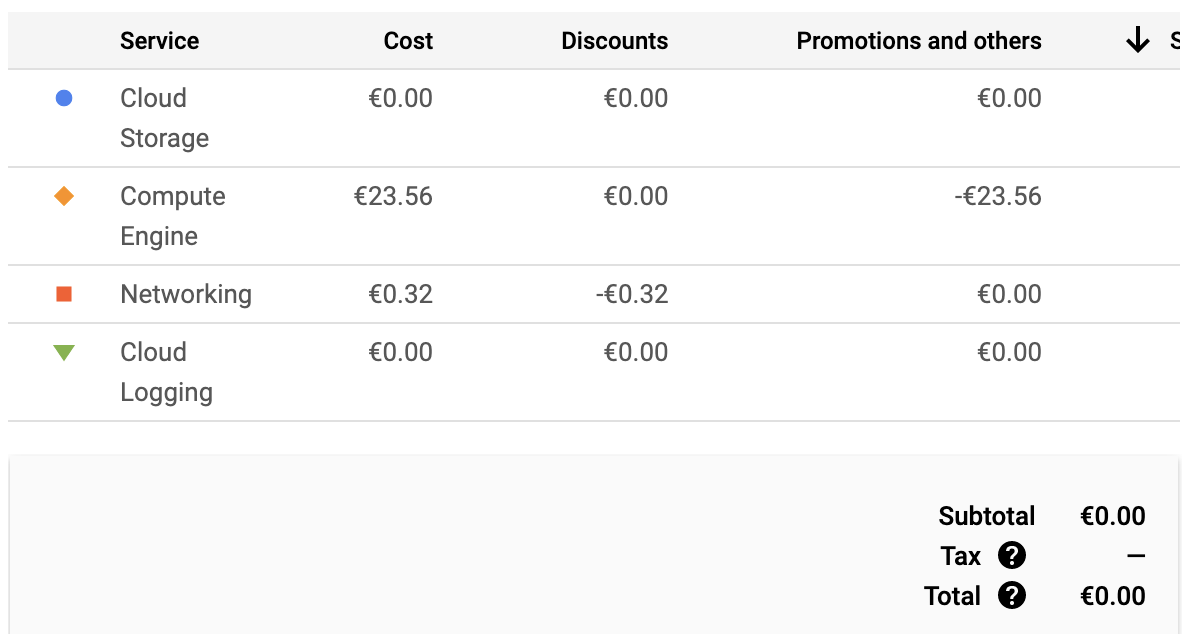
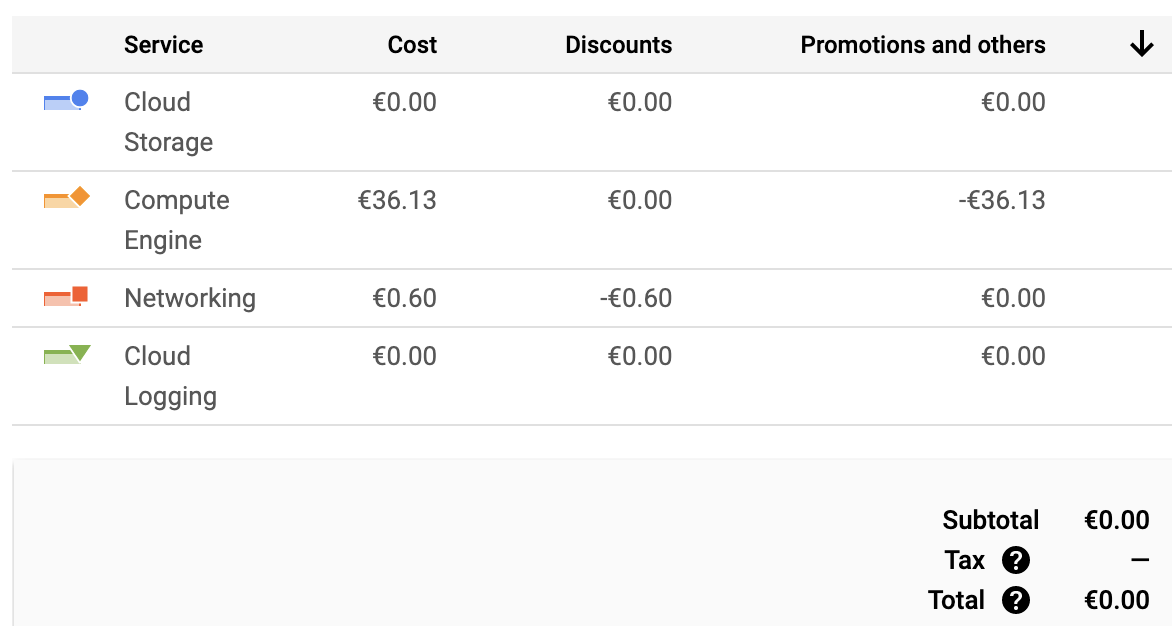
update report

Changed region(s): [[0.0307, 0.3642, 1.0, 0.6981], [0.0, 0.0304, 1.0, 0.3339], [0.7679, 0.7891, 0.9829, 1.0]]

diff --git a/reports/README.md b/reports/README.md
@@ -3,48 +3,11 @@ layout: default
 nav_exclude: true
 ---
 
-# Exam template for 02476 Machine Learning Operations
-
-This is the report template for the exam. Please only remove the text formatted as with three dashes in front and behind
-like:
-
-```--- question 1 fill here ---```
-
-where you instead should add your answers. Any other changes may have unwanted consequences when your report is auto
-generated in the end of the course. For questions where you are asked to include images, start by adding the image to
-the `figures` subfolder (please only use `.png`, `.jpg` or `.jpeg`) and then add the following code in your answer:
-
-```markdown
-![my_image](figures/<image>.<extension>)
-```
-
-In addition to this markdown file, we also provide the `report.py` script that provides two utility functions:
-
-Running:
-
-```bash
-python report.py html
-```
-
-will generate an `.html` page of your report. After deadline for answering this template, we will autoscrape
-everything in this `reports` folder and then use this utility to generate an `.html` page that will be your serve
-as your final handin.
-
-Running
-
-```bash
-python report.py check
-```
-
-will check your answers in this template against the constrains listed for each question e.g. is your answer too
-short, too long, have you included an image when asked to.
-
-For both functions to work it is important that you do not rename anything. The script have two dependencies that can
-be installed with `pip install click markdown`.
+# Machine Learning Operations: Flight Delay Predictinons
 
 ## Overall project checklist
 
-The checklist is *exhaustic* which means that it includes everything that you could possible do on the project in
+The checklist is *exhaustive* which means that it includes everything that you could possible do on the project in
 relation the curricilum in this course. Therefore, we do not expect at all that you have checked of all boxes at the
 end of the project.
 
@@ -53,8 +16,7 @@ end of the project.
 
 - [x] Make sure that all team members have write access to the github repository
 
-- [ ] Create a dedicated environment for you project to keep track of your packages
-    -> add the conda exported file to github @maya
+- [x] Create a dedicated environment for you project to keep track of your packages
 
 - [x] Create the initial file structure using cookiecutter
 
@@ -82,9 +44,11 @@ end of the project.
 
 - [ ] When you have something that works somewhat, remember at some point to to some profiling and see if you can optimize your code
 
-    - profiling & optimization once model is optimized?
+    - profiling was mostly sensible to do for the size of our containers. The model is small enough to not require any speed improvements
 
-- [ ] Use Weights & Biases to log training progress and other important metrics/artifacts in your code. Additionally, consider running a hyperparameter optimization sweep.
+- [x] Use Weights & Biases to log training progress and other important metrics/artifacts in your code. Additionally, consider running a hyperparameter optimization sweep.
+
+    - We tried out Weights & Biases and did some tensorboard logging. Ultimatetively, we used SMAC to optimize our model since it was feasible.
 
 - [x] Use Pytorch-lightning (if applicable) to reduce the amount of boilerplate in your code
 
@@ -94,39 +58,36 @@ end of the project.
 
 - [x] Write unit tests related to model construction and or model training
 
-- [x] Calculate the coverage. = 91% :)
+- [x] Calculate the coverage = 76%
 
 - [x] Get some continuous integration running on the github repository
 
 - [x] Create a data storage in GCP Bucket for you data and preferable link this with your data version control setup
 
-    - link this with your data version control setup: not useful in our case
+    - link this with your data version control setup: not useful in our case, see below
 
 - [x] Create a trigger workflow for automatically building your docker images
 
-    - trigger on push to main
+    - triggered on push to main
 
 - [x] Get your model training in GCP using either the Engine or Vertex AI
 
     - Training and tuning is done in compute engine
 
-- [ ] Create a FastAPI application that can do inference using your model
+- [x] Create a FastAPI application that can do inference using your model
 
-- [ ] If applicable, consider  the model locally using torchserve
+- [ ] If applicable, consider the model locally using torchserve
 
-    - not useful
+    - not useful, deployed in cloud
 
-- [ ] Deploy your model in GCP using either Functions or Run as the backend
+- [x] Deploy your model in GCP using either Functions or Run as the backend
 
-    - check whether useful, because model needs to loaded every time
-
-    - have everything in engine? Or use maybe vertex
+    - We deploy in compute engine to avoid loading model every time
 
 ## Week 3
 
-- [ ] Check how robust your model is towards data drifting
-
-    - part of fridays video, deploy db??
+- [x] Check how robust your model is towards data drifting
+    - We monitor data drifts of new incoming data, don't check model robustness
 
 - [ ] Setup monitoring for the system telemetry of your deployed model
 
@@ -144,9 +105,11 @@ end of the project.
 
 ##   Addtional
 
-- [ ] Revisit your initial project description. Did the project turn out as you wanted?
+- [x] Revisit your initial project description. Did the project turn out as you wanted?
 
-- [ ] Make sure all group members have a understanding about all parts of the project
+    - We think we fulfilled all main goals we set out to achieve in the beginning.
+
+- [x] Make sure all group members have an understanding about all parts of the project
 
 - [x] Uploaded all your code to github
 
@@ -154,7 +117,7 @@ end of the project.
 ## Group information
 
 ### Question 1
-> **Enter the group number you signed up on <learn.inside.dtu.dk>**
+> **Enter the group number you signed up on Moodle**
 >
 > Answer:
 
@@ -191,7 +154,7 @@ For continuous integration and continuous deployment (CI/CD), we relied on GitHu
 
 ## Coding environment
 
-> In the following section we are interested in learning more about you local development environment.
+> In the following section we are interested in learning more about your local development environment.
 
 ### Question 4
 
@@ -259,7 +222,7 @@ While we did not use every folder provided by the cookiecutter template, we foun
 
 9. **.github (Used)**: We added a ".github" folder to leverage GitHub Actions for continuous integration and continuous deployment (CI/CD). This folder contained workflows for automating various project tasks.
 
-10. **.dvc (Used)**: We also included a ".dvc" folder to integrate Data Version Control (DVC) into our project. However data versioning was done in the cloud once integrated.
+10. **.dvc (Used at start)**: We also included a ".dvc" folder to integrate Data Version Control (DVC) into our project. However data versioning was done in the cloud once integrated.
 
 We tailored the cookiecutter template to our project's specific needs, utilizing the folders that were most relevant to our ML Ops workflow while omitting those that did not align with our development approach.
 
@@ -295,9 +258,8 @@ Although making sure all linters don't report any errors can be bothersome, espe
 >
 > Answer:
 
-We implemented 18 tests, that focus on the core parts of a machine learning application. This are namely the data, the model, it's training and inference.
-For data tests concern shape checks and preprocessing, the model is also tested w.r.t. shapes of in- and output. For training we ensure correctness of basic functionalities like
-model creation, hyperparameters and logging. Inference is one of the most vital but also error prone part of our application as it is exposed to day to day usage. Therefor it has the largest share of tests, that ensure basic availability of the application as well as correct responses to different user inputs.
+We implemented 18 tests that focus on the core parts of a machine learning application. This are namely the data, the model, its training and inference.
+Four data tests concern shape checks and preprocessing, the model is also tested w.r.t. shapes of in- and output. For training we ensure correctness of basic functionalities like model creation, hyperparameters and logging. Inference is one of the most vital but also error prone part of our application as it is exposed to day to day usage. Therefore it has the largest share of tests, that ensure basic availability of the application as well as correct responses to different user inputs.
 
 ### Question 8
 
@@ -314,7 +276,7 @@ model creation, hyperparameters and logging. Inference is one of the most vital 
 
 Our code coverage stands at 76%, indicating that our unit tests cover a substantial portion of our codebase. Main misses in the code coverage concern the training of the model which is hard to reflect due to long runtimes and a encapsulation in hyperparamter tuning, while the best covered part is inference which matches the focus of our tests descibred above. While a high code coverage percentage is an encouraging sign, it doesn't guarantee that the code is entirely error-free. Code coverage primarily measures which parts of the code have been executed during testing, but it doesn't assess the quality of the tests themselves.
 
-Even with near 100% code coverage, we cannot ensure error free code because it's possible that certain edge cases or complex scenarios may not be adequately tested. Additionally, the quality of the tests matters; poorly designed or insufficient tests may not catch all potential issues.
+Even with a good code coverage, we cannot ensure error free code because it's possible that certain edge cases or complex scenarios may not be adequately tested. Additionally, the quality of the tests matters; poorly designed or insufficient tests may not catch all potential issues.
 
 Therefore, while high code coverage is essential, it should be complemented with thorough testing strategies, code reviews, and other quality assurance measures to enhance confidence in the code's reliability and correctness.
 
@@ -458,7 +420,6 @@ By combining these practices, we minimize information loss, maintain experiment 
 > Answer:
 
 ![A pareto-front of our training](figures/pareto_front.png)
-Figure Description:
 
 The figure displays a Pareto front generated during our tuning run with SMAC. It shows a trade-off relationship between two key metrics: model size and 1-F1 measure.
 
@@ -469,6 +430,14 @@ The figure displays a Pareto front generated during our tuning run with SMAC. It
 Significance:
 
 The Pareto front is a valuable visualization of our hyperparameter tuning as it showcases the trade-offs between model size and classification performance. In this specific figure, you can see that there seem to be three different configurations with different possible achieved F1 scores where model size does not seem to matter. Thus, choosing the smallest model that achieves an F1 of 0.9 is the natural choice.
+
+![WandB](figures/wandb.jpg)
+
+We also played around a bit with Weights & Biases to log the training of the model, as you can see above.
+
+![Tensorboard](figures/tensorboard.png)
+
+In addition, we also tried out logging the model train and validation loss locally using tensorboard. This shows nicely how both the training loss while training and a validation loss of a holdout dataset go down with each epoch of training. Here, we artificially increased the epochs so that this is easier to see. The tuning most often found that less epochs seemed to produce better out-of-bag results.
 
 
 ### Question 15
@@ -575,7 +544,7 @@ Google Cloud Compute Engine was pivotal in our project for its scalable and effi
 - Our inference VMs were configured with a similar setup but with fewer CPU cores, using the `c2d-highcpu-4` machine type. This was suitable for serving model predictions with lower computational demands.
 
 **Monitoring VM**:
-- The monitoring VMs were configured as the inference VM as they have similar computational demands.
+- The monitoring VMs were configured with less computational power as `n2d-standard-2` machines, since they require less performance and thus costs need to stay low. Another good option for the monitoring would have been a cloud function that only runs on request.
 
 All types of VMs were hosted in the `europe-west3-c` zone and were associated with specific service accounts, granting them necessary permissions for cloud platform access. Compute Engine ensured our project had the computing power required for training and serving machine learning models efficiently in a scalable and cloud-native manner.
 
@@ -613,7 +582,7 @@ As already outlined above, we wanted the project to stay as independent of the p
 
 ### Question 22
 
-> **Did you manage to deploy your model, either in locally or cloud? If not, describe why. If yes, describe how and**
+> **Did you manage to deploy your model, either locally or cloud? If not, describe why. If yes, describe how and**
 > **preferably how you invoke your deployed service?**
 >
 > Answer length: 100-200 words.
@@ -637,10 +606,9 @@ We successfully deployed our machine learning model in the cloud, specifically o
 
 To post a single data point for prediction from the command line:
 `curl -X 'POST' \
-  'http://<ENDPOINT_IP>/predict?input_data=%22%5B8000207.0%2C0%2C6%2C6%2C16%2C15%2C9 [ more data ] C1%2C650%2C1%5D%22' \
-  -H 'accept: application/json' \
-  -d ''`
-Response looks like the following:
+  'http://<ENDPOINT_IP>/predict?input_data=%22%5B8000207.0%2C0%2C6%2C6%2C16%2C15%2C9 [ more data ] C1%2C650%2C1%5D%22'`
+
+The response looks like the following:
 `{"input":"[ input data ]","message":"OK","status-code":200,"prediction":[{"delay":0.130349263548851}]}`
 
 By deploying our model in the cloud with Docker and FastAPI, we created an accessible inference service with easy ways for increasing the performance short term and the option to make it fully scalable in the future.
@@ -682,10 +650,10 @@ Due to time constraints we could not provide a more extensive monitoring for our
 >
 > Answer:
 
-As of now, we've utilized approximately 30€ of our available credits (the plot is a bit older), primarily attributed to Compute Engine, where we are using rather performant machines. The cost can mosly be attributedto instances inadvertently running overnight due to automated deployments. This is a major downside of Compute Engine, since it also costs money when you are not actively using the resources. This is good for training, where we need high performance for a short time, but more inconvenient for inference, at least as long as inference is done on a small scale.
-However, our financial resources were robust, with over 300€ at our disposal. To ensure not running out of budget, we've implemented budgeting alerts and set cutoffs at 50€ as a precautionary measure.
+As of now, we've utilized approximately 38€ of our available credits, primarily attributed to Compute Engine, where we are using rather performant machines. The cost can mosly be attributedto instances inadvertently running overnight due to automated deployments. This is a major downside of Compute Engine, since it also costs money when you are not actively using the resources. This is good for training, where we need high performance for a short time, but more inconvenient for inference, at least as long as inference is done on a small scale.
+However, our financial resources were robust, with 379€ at our disposal. To ensure not running out of budget, we've implemented budgeting alerts and set cutoffs at 50€ as a precautionary measure.
 
-It's worth noting that the actual cost of operations during periods when we actively required resources amounted to less than 5€ by our estimations.
+It's worth noting that the actual cost of operations during periods when we actively required resources amounted to less than 10€ by our estimations.
 
 ![Our Cost Overview](figures/costs.png)
 
